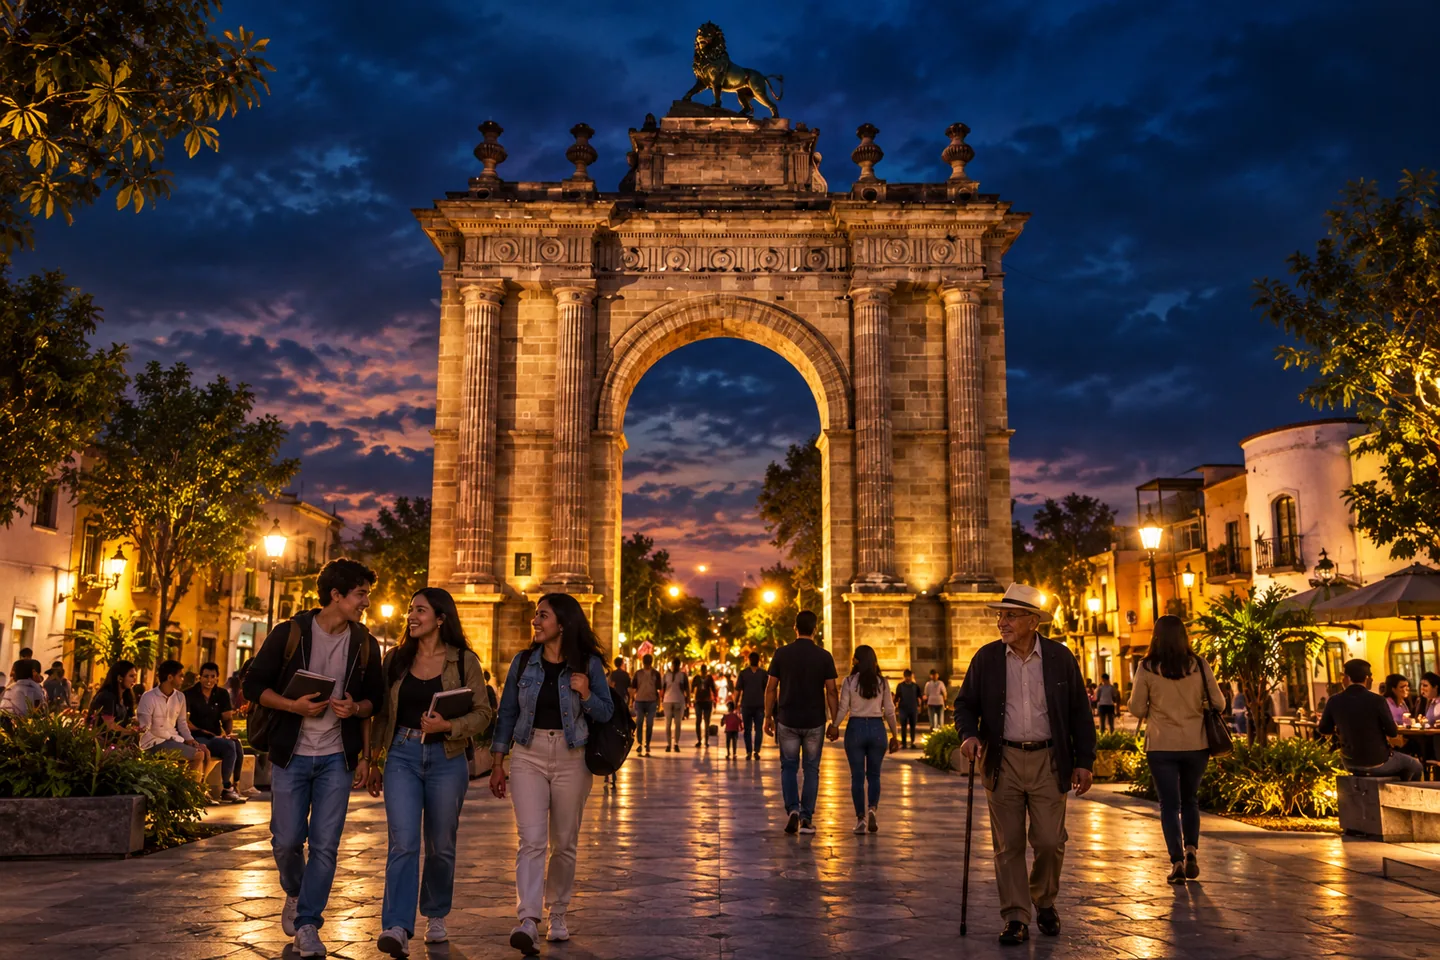
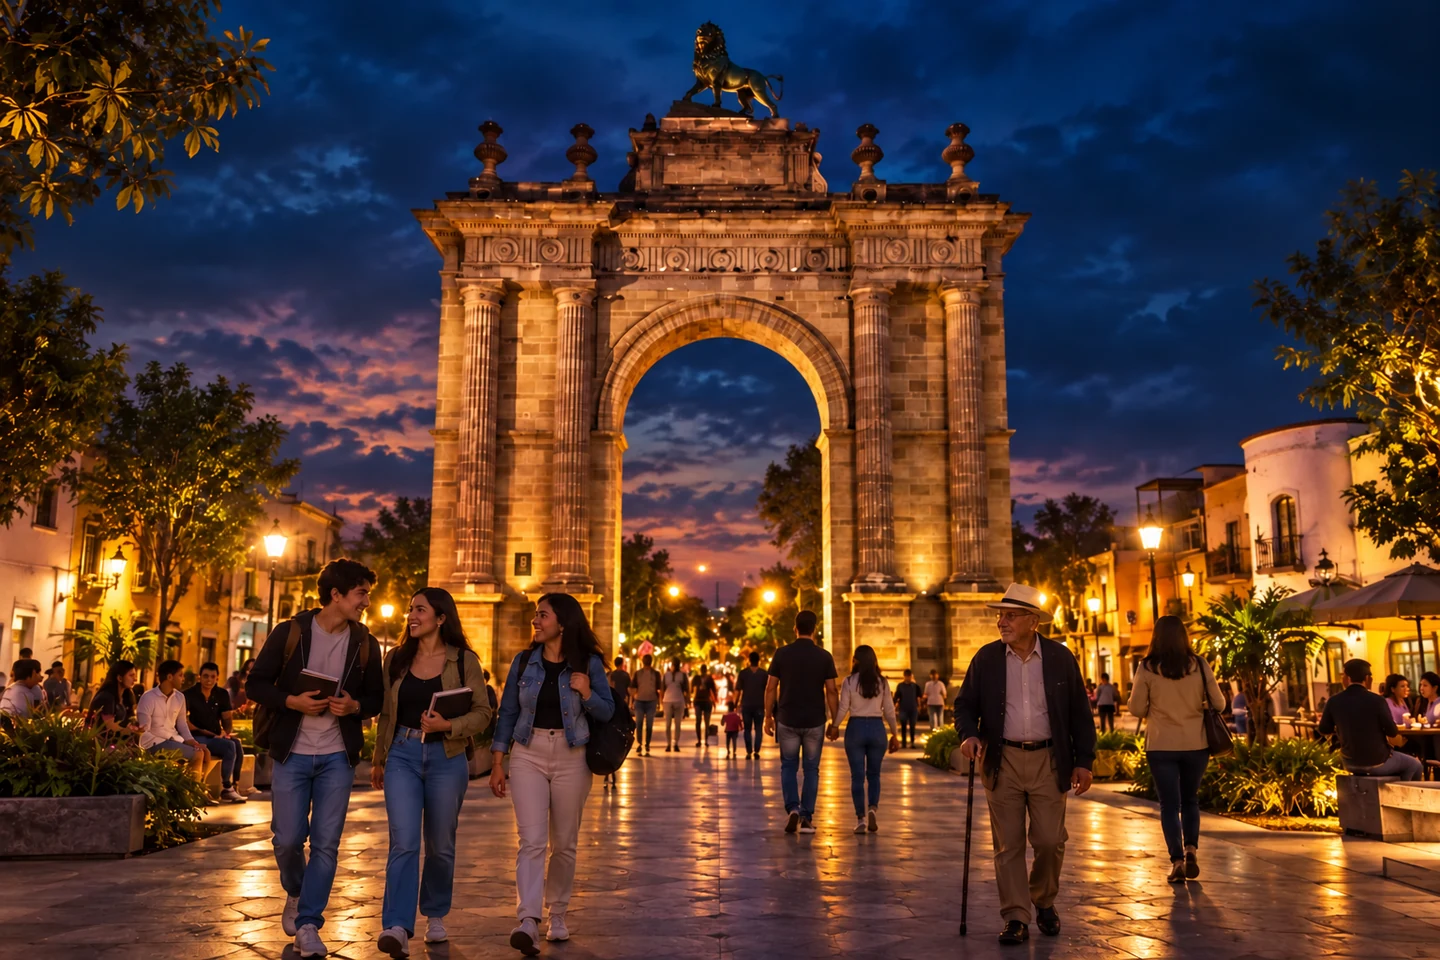
Correct extra hand in Sociedad and rebuild realistic shoe in Economía artwork

diff --git a/docs/axis-artwork.md b/docs/axis-artwork.md
@@ -62,3 +62,18 @@ Archivo: public/axes/entrances/eje-7.webp
 
 Use case: stylized-concept. Asset type: original full-width transition artwork for IMPLAN León statistical portal. GOBIERNO. A sophisticated editorial architectural illustration of the ACTUAL Palacio Municipal de León Guanajuato, façade shown in the reference. Preserve distinctive terracotta central façade, pale cantera classical pilasters, three upper balcony openings, symmetrical window rhythm and the small square CLOCK turret above the center. Keep recognizable low broad neoclassical proportions and adjoining white building. Quiet civic plaza foreground, a few residents in scale, three-quarter architectural photography composition. NOT a generic parliament, not a cathedral, not a glass pavilion, no dome or invented towers. Exact recognizable building identity is the priority. Input image role: architectural/geographic visual reference; create a new stylized editorial illustration, preserving identifying real-world forms. Premium international studio-quality detailed 3D/editorial rendering with believable materials; cinematic dark palette of charcoal, near-black, stone, leather and muted authentic original colors, selective phosphorescent lime green #b6ff00 light accents. Elegant directional lighting, controlled depth, refined detail, no random abstract sculpture. Wide LANDSCAPE 1536x1024. Main scene within central 75% so it crops to phone; leave some dark breathing room at edges and bottom for HTML caption. No in-image title, no labels, no watermark, no invented institutional seals, no UI. This is an artistic city-themed illustration, not a documentary photograph.
 
+
+## Revisión de detalle — 23 de octubre de 2026
+
+Edición con Imagegen integrado de las aperturas de Sociedad y Economía. Conservan 1440 × 960 y su encuadre y tratamiento de luz. Se revisaron visualmente los siete originales y los dos reemplazos antes de integrarlos; no se detectaron otras deformaciones evidentes a esta escala.
+
+- Sociedad: retirada la mano sobrante junto a la cadera del joven izquierdo; sus dos manos sostienen el libro.
+- Economía: reconstruido el zapato con proporciones naturales, cordones, suela continua y tacón alineado; ajustado el contacto con las manos y la herramienta.
+
+Prompts de corrección (precise-object-edit):
+
+Sociedad: Correct ONLY the anatomy of the young man at the left foreground holding a book. REMOVE the extra dangling hand entirely. Exactly TWO arms and TWO hands, both naturally holding the book at waist height. Reconstruct jacket edge/background cleanly. Check foreground fingers and arm connections. Preserve every other person, Arco de la Calzada architecture, camera, lighting, dusk palette and composition.
+
+Economía: Replace the misshapen shoe with a realistically proportioned brown leather Oxford brogue on one wooden last: rounded almond toe, aligned low heel, continuous welt and sole, coherent panels, neat laces and stitching. Natural horizontal three-quarter side view on the workbench, toe right, heel left. Exactly two anatomically correct artisan hands with coherent grip and burnishing tool contact. Preserve workshop, scraps, sewing machine, background, lighting and wide composition. No extra shoe parts, warped sole or disconnected heel.
+
+Validación: compilación de producción y 14 pruebas aprobadas.
